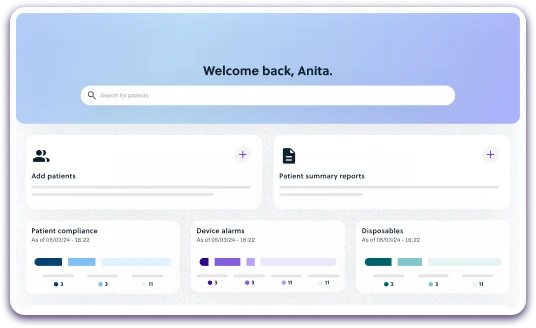
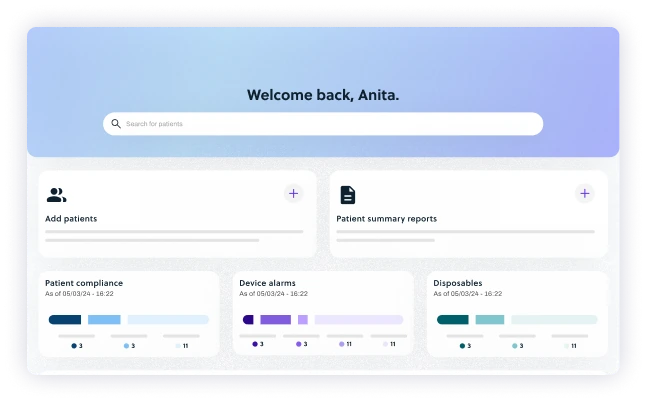
Switch card order and fix clinician dashboard image
Purple dashboard card moved to left, phone cards to right, matching Figma.
Replaced clinician.webp with a clean Figma export (no baked-in frame border).
Swapped box-shadow for drop-shadow filter to match Figma spec.

diff --git a/app/page.tsx b/app/page.tsx
@@ -38,6 +38,53 @@ export default function Home() {
       >
         <div className="flex flex-col laptop:flex-row xl:flex-row gap-6">
 
+          {/* ── Project 2 — clinical dashboard ───────────────────── */}
+          <a href="/projects/project-two" className="group laptop:flex-1 xl:flex-1">
+
+            <div className="relative w-full
+              md:overflow-clip md:aspect-[756/576]"
+            >
+              {/* Card */}
+              <div
+                className="overflow-clip relative rounded-lg w-full
+                  aspect-[756/576]
+                  md:aspect-auto md:absolute md:inset-x-0 md:top-0 md:bottom-0
+                  md:group-hover:bottom-[30px]
+                  md:transition-[bottom] md:duration-300 md:ease-in-out"
+                style={{ background: "linear-gradient(180deg, #2a1955 6.848%, #37216d 57.242%, #2a1955 136.49%)" }}
+              >
+                <div
+                  className="absolute overflow-clip -translate-x-1/2 -translate-y-1/2 left-1/2 top-1/2
+                             drop-shadow-[0px_0px_13.5px_rgba(17,20,78,0.2)]"
+                  style={{
+                    width: "78.38%",
+                    aspectRatio: "592.541 / 348",
+                    borderRadius: "9.405px",
+                  }}
+                >
+                  {/* eslint-disable-next-line @next/next/no-img-element */}
+                  <img src="/clinician.webp" alt="Vapotherm clinical dashboard"
+                    style={{ display: "block", width: "100%", height: "100%", objectFit: "cover", objectPosition: "top" }}
+                  />
+                </div>
+              </div>
+
+              {/* Label */}
+              <div className="
+                mt-3 flex items-center justify-between whitespace-nowrap
+                text-xs tracking-[0.04em] font-normal
+                md:mt-0 md:absolute md:inset-x-0 md:bottom-0 md:h-[30px]
+                md:text-sm md:opacity-0
+                md:translate-y-full md:group-hover:opacity-100 md:group-hover:translate-y-0
+                md:transition-all md:duration-300 md:ease-in-out
+                xl:text-[16px]"
+              >
+                <span style={{ color: "var(--text-label)" }}>At-a-glance COPD patient management</span>
+                <span style={{ color: "var(--text-company)" }}>Vapotherm</span>
+              </div>
+            </div>
+          </a>
+
           {/* ── Project 1 — two half-cards ───────────────────────── */}
           <a href="/projects/project-one" className="group laptop:flex-1 xl:flex-1">
 
@@ -132,53 +179,6 @@ export default function Home() {
                 xl:text-[16px]"
               >
                 <span style={{ color: "var(--text-label)" }}>COPD symptom management made easy</span>
-                <span style={{ color: "var(--text-company)" }}>Vapotherm</span>
-              </div>
-            </div>
-          </a>
-
-          {/* ── Project 2 — clinical dashboard ───────────────────── */}
-          <a href="/projects/project-two" className="group laptop:flex-1 xl:flex-1">
-
-            <div className="relative w-full
-              md:overflow-clip md:aspect-[756/576]"
-            >
-              {/* Card */}
-              <div
-                className="overflow-clip relative rounded-lg w-full
-                  aspect-[756/576]
-                  md:aspect-auto md:absolute md:inset-x-0 md:top-0 md:bottom-0
-                  md:group-hover:bottom-[30px]
-                  md:transition-[bottom] md:duration-300 md:ease-in-out"
-                style={{ background: "linear-gradient(180deg, #2a1955 6.848%, #37216d 57.242%, #2a1955 136.49%)" }}
-              >
-                <div
-                  className="absolute overflow-clip -translate-x-1/2 -translate-y-1/2 left-1/2 top-1/2"
-                  style={{
-                    width: "78.38%",
-                    aspectRatio: "592.541 / 348",
-                    borderRadius: "9.405px",
-                    boxShadow: "0px 0px 13.5px rgba(17, 20, 78, 0.2)",
-                  }}
-                >
-                  {/* eslint-disable-next-line @next/next/no-img-element */}
-                  <img src="/clinician.webp" alt="Vapotherm clinical dashboard"
-                    style={{ display: "block", width: "100%", height: "100%", objectFit: "cover", objectPosition: "top" }}
-                  />
-                </div>
-              </div>
-
-              {/* Label */}
-              <div className="
-                mt-3 flex items-center justify-between whitespace-nowrap
-                text-xs tracking-[0.04em] font-normal
-                md:mt-0 md:absolute md:inset-x-0 md:bottom-0 md:h-[30px]
-                md:text-sm md:opacity-0
-                md:translate-y-full md:group-hover:opacity-100 md:group-hover:translate-y-0
-                md:transition-all md:duration-300 md:ease-in-out
-                xl:text-[16px]"
-              >
-                <span style={{ color: "var(--text-label)" }}>At-a-glance COPD patient management</span>
                 <span style={{ color: "var(--text-company)" }}>Vapotherm</span>
               </div>
             </div>